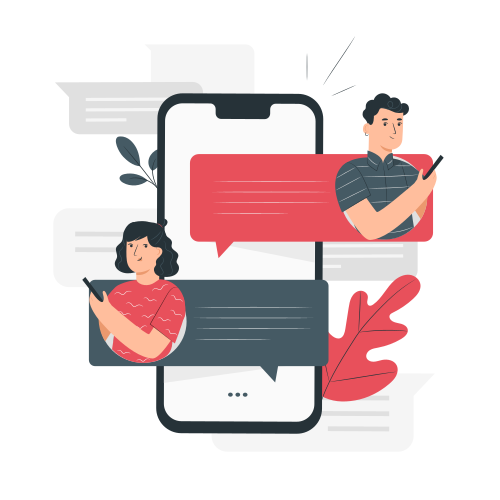
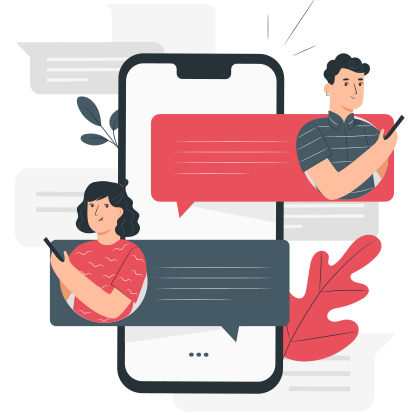
made some ui changes on homePage

diff --git a/lib/screens/homePage.dart b/lib/screens/homePage.dart
@@ -11,53 +11,50 @@ class _MyHomePageState extends State<MyHomePage> {
   @override
   Widget build(BuildContext context) {
     return Scaffold(
-      appBar: PreferredSize(
-        preferredSize: Size.fromHeight(MediaQuery.of(context).size.height / 6),
-        child: AppBar(
-          toolbarHeight: 80,
-          shape: const RoundedRectangleBorder(
-              borderRadius: BorderRadius.only(
-                  bottomRight: Radius.circular(20),
-                  bottomLeft: Radius.circular(20))),
-          backgroundColor: const Color.fromARGB(255, 255, 226, 211),
-          flexibleSpace: Padding(
-            padding: EdgeInsets.fromLTRB(35, 45, 0, 0),
-            child: Container(
-              // color: Colors.red,
-              child: const Text(
-                "Zapchat",
-                style: TextStyle(
-                  fontSize: 40,
-                  fontWeight: FontWeight.bold,
-                  color: Color(0xFF241437),
-                ),
-              ),
-            ),
-          ),
-          bottom: Tab(
-            height: (MediaQuery.of(context).size.height / 5) - 56,
-            child: Container(
-              width: double.infinity,
-              // color: Colors.amber,
-              padding: EdgeInsets.fromLTRB(35, 30, 20, 20),
-              child: const Column(
-                crossAxisAlignment: CrossAxisAlignment.start,
-                children: [
-                  Text(
-                    "From quick chats to deep conversations ZapChat keeps you connected",
-                    style: TextStyle(
-                        fontWeight: FontWeight.w500,
-                        color: Color(
-                          0xFF241437,
-                        ),
-                        fontSize: 18),
-                  )
-                ],
-              ),
-              // color: Colors.yellow,
-            ),
-          ),
-        ),
+      appBar: AppBar(
+        // toolbarHeight: 80,
+        shape: const RoundedRectangleBorder(
+            borderRadius: BorderRadius.only(
+                bottomRight: Radius.circular(20),
+                bottomLeft: Radius.circular(20))),
+        backgroundColor: const Color.fromARGB(255, 255, 226, 211),
+        // flexibleSpace: Padding(
+        //   padding: EdgeInsets.fromLTRB(35, 45, 0, 0),
+        //   child: Container(
+        //     // color: Colors.red,
+        //     child: const Text(
+        //       "",
+        //       style: TextStyle(
+        //         fontSize: 40,
+        //         fontWeight: FontWeight.bold,
+        //         color: Color(0xFF241437),
+        //       ),
+        //     ),
+        //   ),
+        // ),
+        // bottom: Tab(
+        //   height: (MediaQuery.of(context).size.height / 5) - 56,
+        //   child: Container(
+        //     width: double.infinity,
+        //     // color: Colors.amber,
+        //     padding: EdgeInsets.fromLTRB(35, 30, 20, 20),
+        //     child: const Column(
+        //       crossAxisAlignment: CrossAxisAlignment.start,
+        //       children: [
+        //         Text(
+        //           "From quick chats to deep conversations ZapChat keeps you connected",
+        //           style: TextStyle(
+        //               fontWeight: FontWeight.w500,
+        //               color: Color(
+        //                 0xFF241437,
+        //               ),
+        //               fontSize: 18),
+        //         )
+        //       ],
+        //     ),
+        //     // color: Colors.yellow,
+        //   ),
+        // ),
       ),
       body: Container(
           width: double.infinity,
@@ -65,10 +62,27 @@ class _MyHomePageState extends State<MyHomePage> {
           child: Column(
             // mainAxisAlignment: MainAxisAlignment.center,
             children: [
-              // Text("Helllo"),
-              Image.asset(
-                'assets/images/homepage.png',
-                height: 400,
+              const SizedBox(
+                height: 20,
+              ),
+              const Text(
+                "Zapchat",
+                style: TextStyle(
+                  // backgroundColor: Colors.cyan,
+                  fontSize: 50,
+                  fontWeight: FontWeight.bold,
+                  color: Color(0xFF241437),
+                ),
+              ),
+              Container(
+                // color: Colors.amber,
+                child: Image.asset(
+                  'assets/images/homepage.png',
+                  height: 350,
+                ),
+              ),
+              const SizedBox(
+                height: 40,
               ),
               const Text(
                 "Welcome to Zapchat.!",
